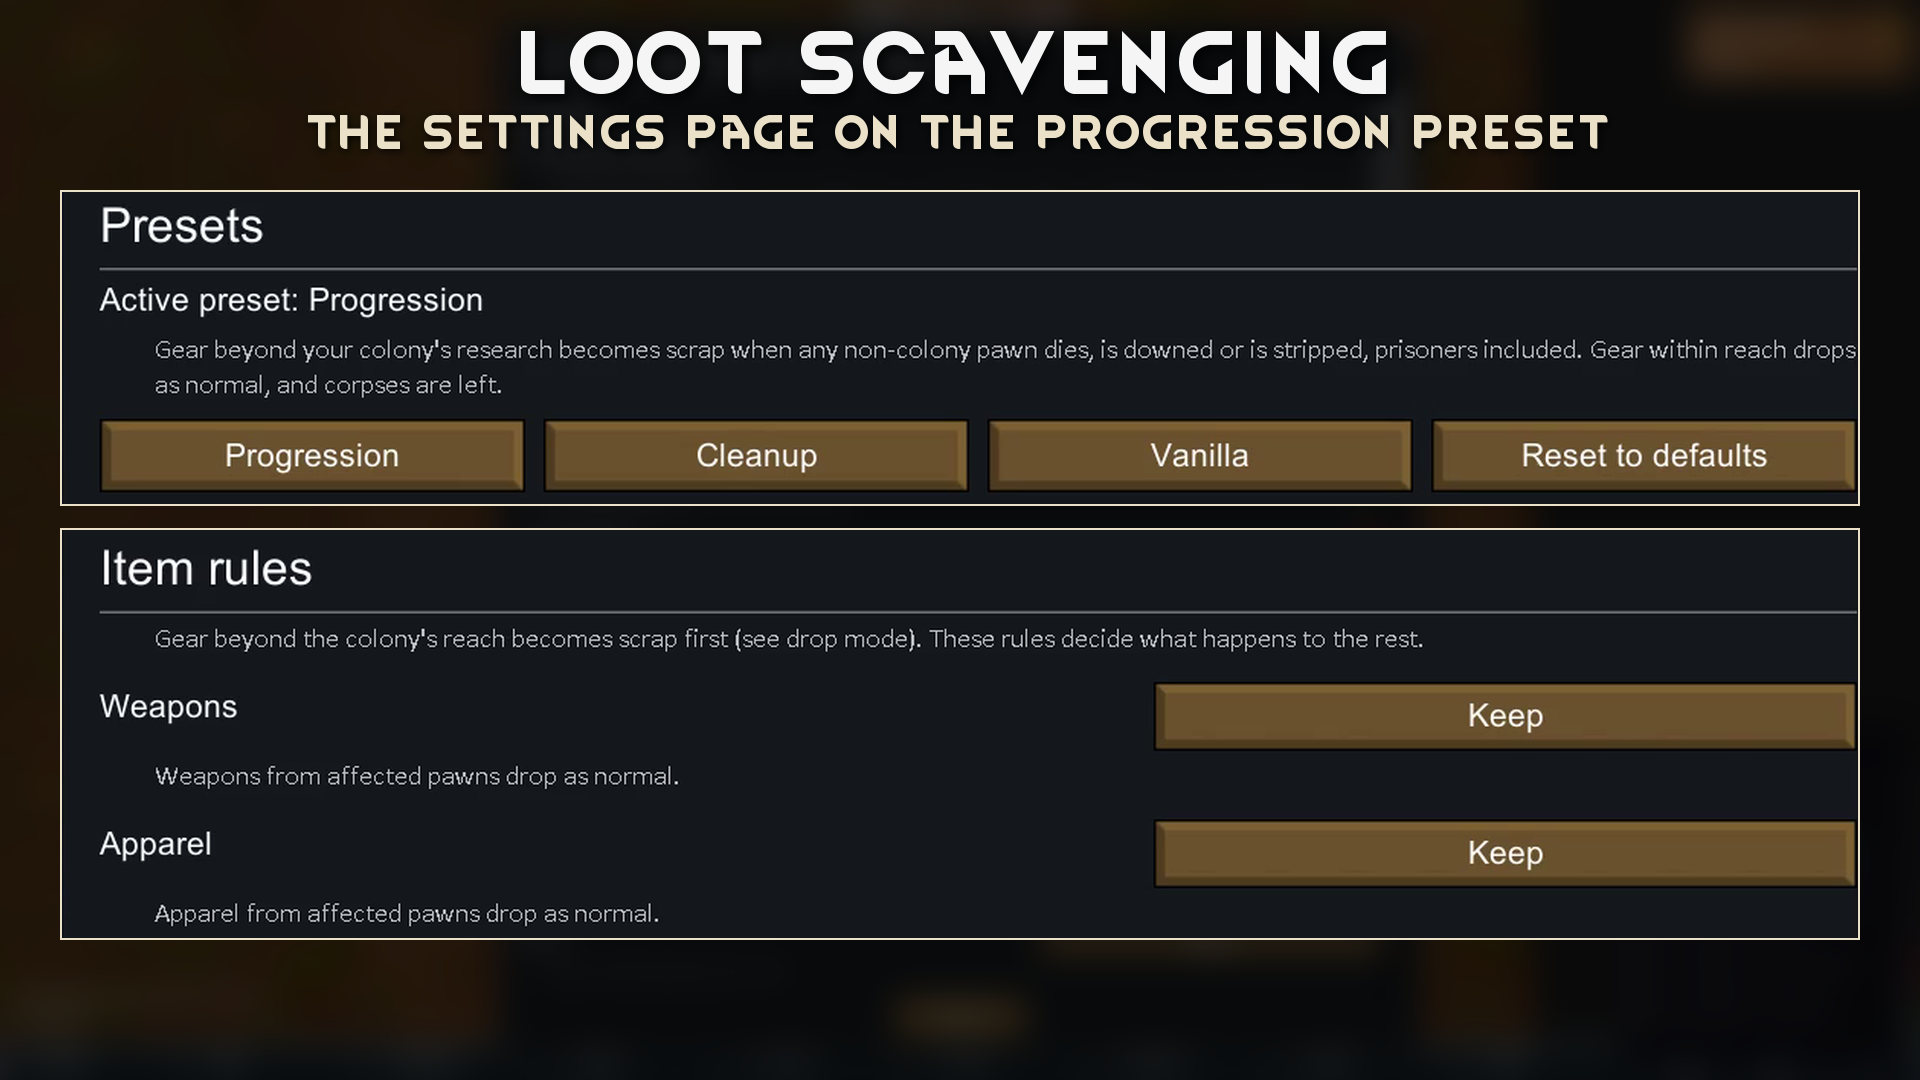
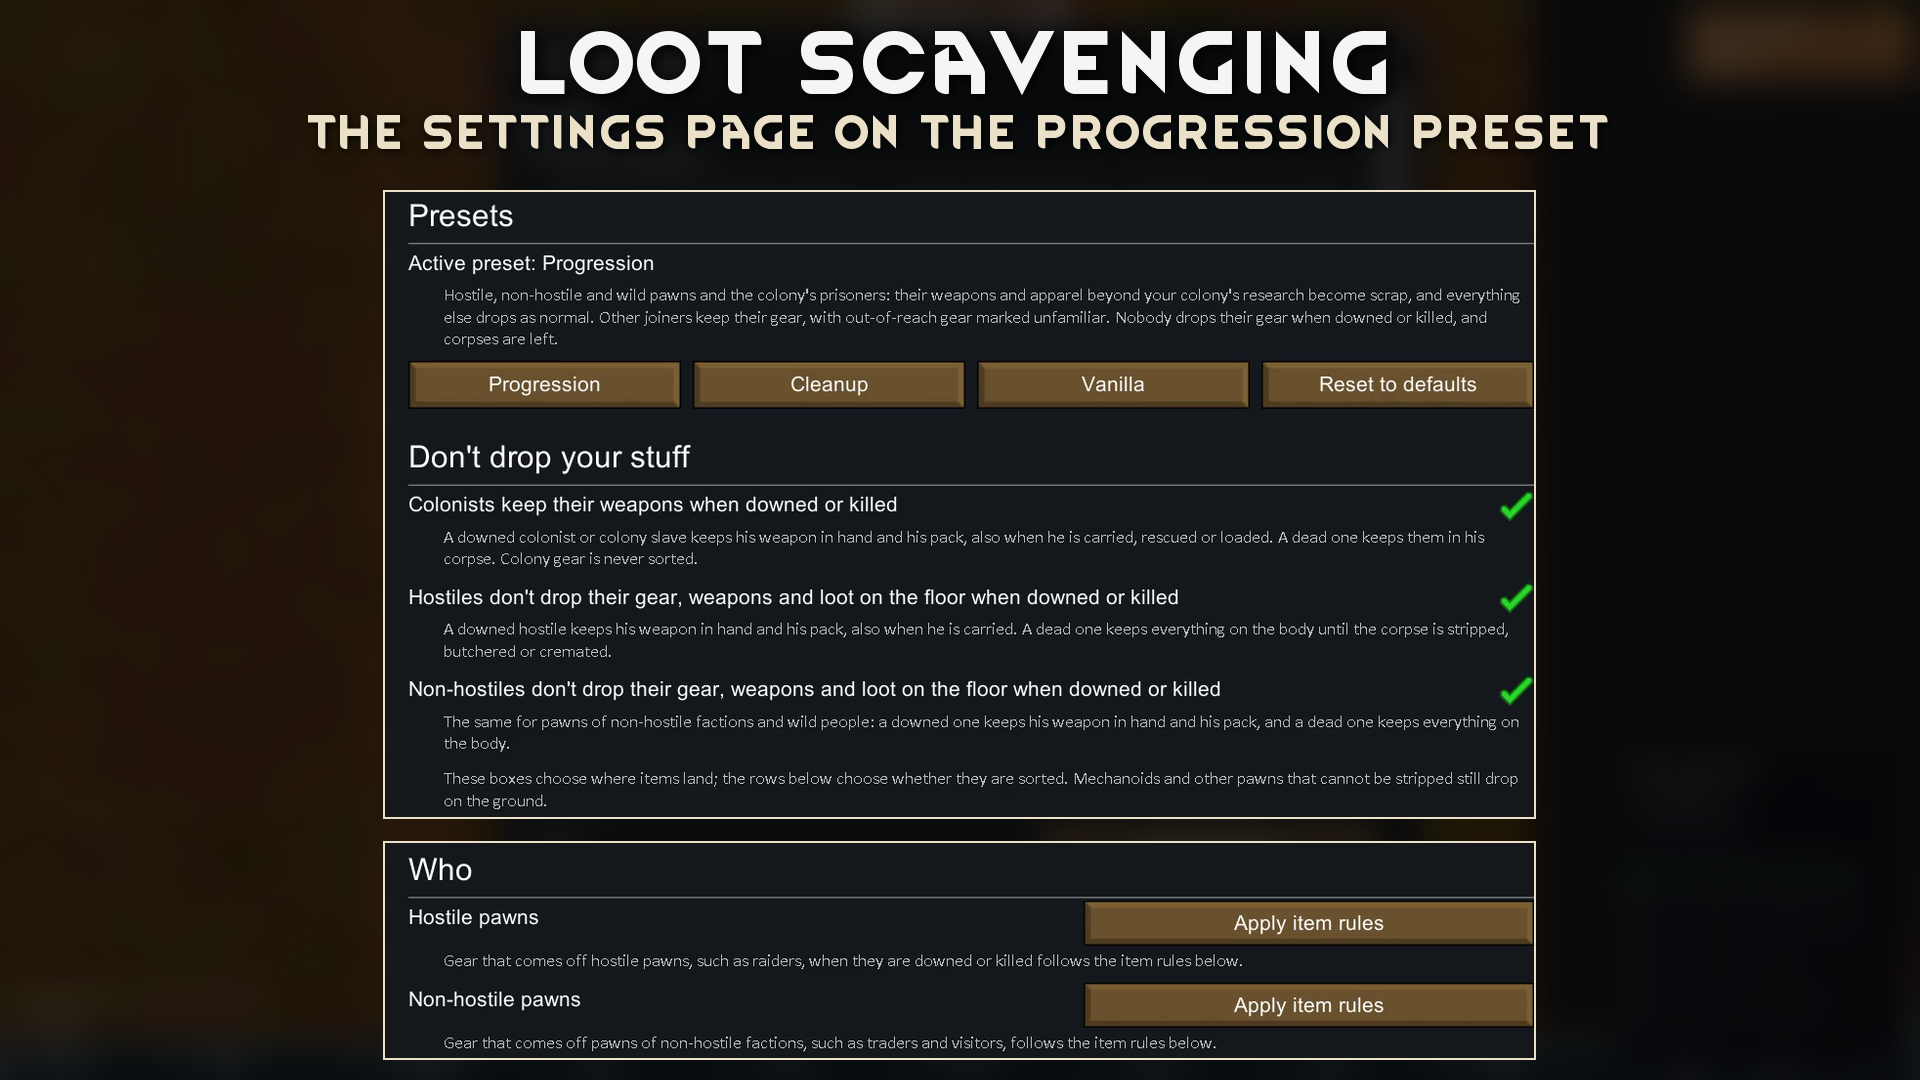
Refilm the settings gallery image for the 0.6.0 page
The old image showed Weapons and Apparel as "see drop mode", a setting
0.6.0 removed. The new still shows the preset line, the "Don't drop your
stuff" boxes and the first Who rows, scaled to fit the taller page.

diff --git a/tools/workshop_gallery.py b/tools/workshop_gallery.py
@@ -276,19 +276,22 @@ def settings(frame_path):
     frame = Image.open(frame_path).convert("RGBA")
     img = backdrop(frame)
     header(img, "The settings page on the Progression preset")
-    # One frame of the page, cut in two: the preset line with its sentence, and the first item rules with theirs. The gap
-    # between the bands carries no mark.
+    # One frame of the 0.6.0 page, cut in two: the preset line and the "Don't drop your stuff" boxes with their sentences,
+    # then the first two Who rows with theirs. The gap between the bands carries no mark. The scale fits both bands into
+    # the space under the header, since the page is now taller than it is wide.
     x0, x1 = 666, 1846
-    bands = [(135, 342), (862, 1132)]
-    scale = (CANVAS[0] - 120) / (x1 - x0)
-    y = 190
+    bands = [(132, 776), (792, 1016)]
+    gap, top, bottom = 22, 190, 20
+    room = CANVAS[1] - top - bottom - gap * (len(bands) - 1)
+    scale = min((CANVAS[0] - 120) / (x1 - x0), room / sum(y1 - y0 for y0, y1 in bands))
+    y = top
     for y0, y1 in bands:
         crop = frame.crop((x0, y0, x1, y1))
         crop = crop.resize((round(crop.width * scale), round(crop.height * scale)), Image.LANCZOS)
         x = (CANVAS[0] - crop.width) // 2
         img.alpha_composite(crop, (x, y))
         outlined(img, (x, y, crop.width, crop.height))
-        y += crop.height + 22
+        y += crop.height + gap
     save(img, "gallery-settings.png")
 
 

diff --git a/.scratch/workshop-media/issues/10-gallery-settings-for-0.6.0.md b/.scratch/workshop-media/issues/10-gallery-settings-for-0.6.0.md
@@ -1,6 +1,6 @@
 # 10: Gallery settings image for 0.6.0
 
-Status: ready-for-agent
+Status: resolved
 
 **Recommended model:** `opus`: film direction and a public image.
 
@@ -16,6 +16,15 @@ Status: ready-for-agent
 
 ## Acceptance
 
-- [ ] `gallery-settings.png` shows the 0.6.0 page; no mention of drop mode.
-- [ ] Spec item 4 updated if the image now shows different parts of the page.
-- [ ] Ticket records the run id and the command used.
+- [x] `gallery-settings.png` shows the 0.6.0 page; no mention of drop mode.
+- [x] Spec item 4 updated if the image now shows different parts of the page.
+- [x] Ticket records the run id and the command used.
+
+## Comments
+
+### 2026-11-25: filmed and rendered
+
+- Run `20261125-174001-lootscavenging-ui-s1`, 6 of 6 passed: `python tools/ls_test.py run lootscavenging-ui --seed 1 --record --show-ui --frames 40 --quit-on-finish` from the `ticket-10` worktree after `deploy.ps1` and the DevTests build, display nudged awake first. RimWorld 1.7, default mod set, English.
+- The frame is the video at 5.5 s (inside the case's 4 s hold at UI scale 1.5), cut with FFmpeg to `work/gallery/settings-frame.png`; other candidates are in `work/gallery/ui-0.6.0/`.
+- Rendered with `python tools/workshop_gallery.py settings work/gallery/settings-frame.png`. Two bands: the preset line with its sentence and the three "Don't drop your stuff" boxes with theirs, then the Who heading with the Hostile and Non-hostile rows and their sentences. The page is taller now, so the script scales the bands to fit the height (about 0.98, against 1.52 before). Title unchanged; no drop mode anywhere.
+- Checked at 960 and 640 px wide: at 960 every line reads; at 640 the headings, row labels, box labels and buttons read, the small sentences do not. The text is the game's own, from the frame.

diff --git a/TESTING.md b/TESTING.md
@@ -83,6 +83,12 @@ Not covered: clicking in the settings page and bill tabs (the ui batch only draw
 
 ## Result recording
 
+### 2026-11-25 - Settings still for the 0.6.0 gallery (workshop-media ticket 10)
+
+- Version/environment: RimWorld 1.7, default mod set, English, seed 1, from the `ticket-10` worktree. `deploy.ps1` and the DevTests build first, the display nudged awake, then `python tools/ls_test.py run lootscavenging-ui --seed 1 --record --show-ui --frames 40 --quit-on-finish`.
+- Run: `20261125-174001-lootscavenging-ui-s1`, 6 of 6 passed. The video at 5.5 s, inside the 4 s hold, shows the preset line, the "Don't drop your stuff" boxes and the Who rows down to "Other joiners"; no item rule row fits. `tools/workshop_gallery.py settings` cuts that frame (`work/gallery/settings-frame.png`) into the gallery image.
+- Status: Passed.
+
 ### 2026-11-25 - Semi Random Research study and the moments map (test fixes, 0.6.0)
 
 - Version/environment: RimWorld 1.7, seed 1, English, `main` at `afc7f6e` plus the DevTests changes below. Mod DLL unchanged, so the 0.6.0 release check stands.

diff --git a/.scratch/workshop-media/spec.md b/.scratch/workshop-media/spec.md
@@ -47,7 +47,7 @@ Gallery images are 1920x1080 PNG. Order:
    - scrap everything;
    - keep the original but unfamiliar, shown selected with the unfamiliar line in its inspect pane;
    - off.
-4. **`gallery-settings.png`**: an in-game screenshot of the settings page on Progression. It shows the preset line, a category rule row and its "what will happen" sentence, framed with a short title.
+4. **`gallery-settings.png`**: an in-game screenshot of the settings page on Progression. It shows the preset line with its sentence, the three "Don't drop your stuff" boxes and the first Who rows with theirs, framed with a short title.
 5. **`gallery-inspect.png`**: two scrap stacks, each selected with its inspect pane. One says it can be studied now and the other says why not (needs research). Side by side, with captions.
 
 ## Tickets
